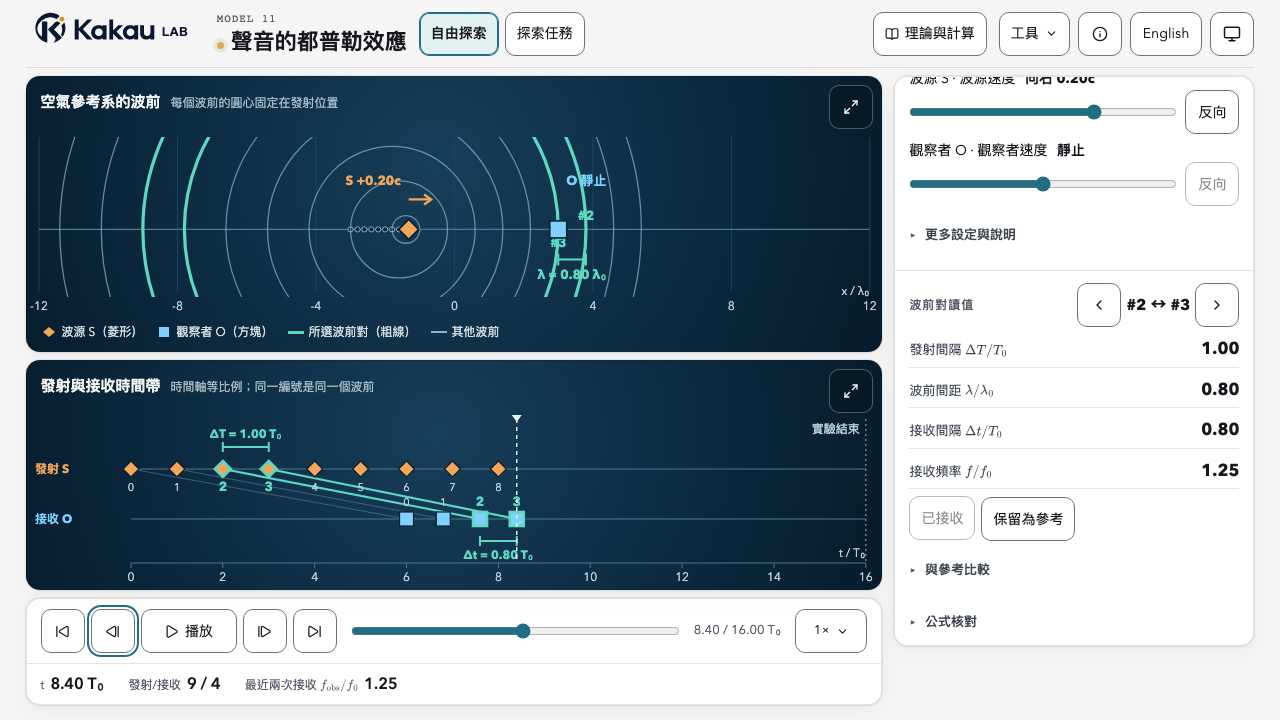
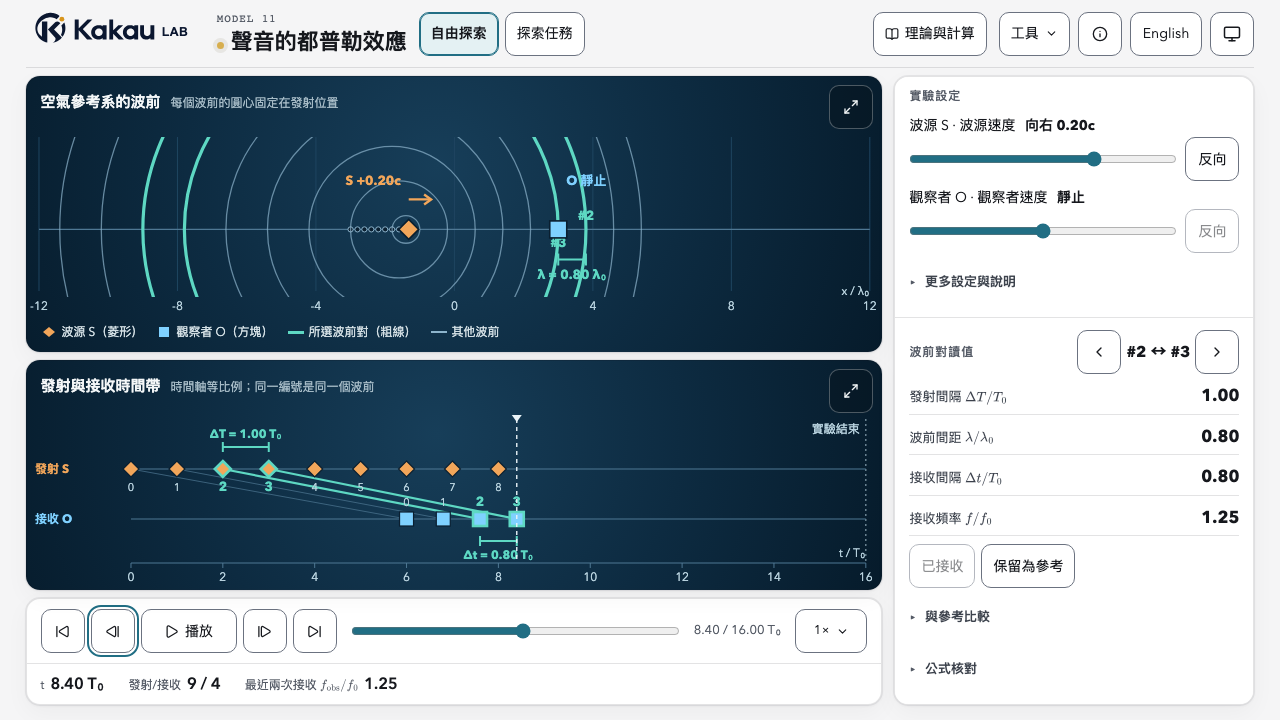
fix(doppler): side panel matches the figures column, transport wraps by dock width
On wide screens the side panel is stretched to the height of the figures plus
the dock and scrolls inside itself. The transport lays out by the width of the
dock (container query), so the rate menu can no longer overflow it when the side
panel takes its share of a mid-width window.

diff --git a/app/doppler-c2.css b/app/doppler-c2.css
@@ -90,8 +90,14 @@ html[data-mode="dark"] .doppler-c2 .doppler-toast[data-tone="warn"] .doppler-toa
 /* ---- Stage: figures + dock on the left, readouts and controls on the right ---- */
 .doppler-c2 .doppler-stage { display: grid; grid-template-columns: minmax(0, 1fr) 360px; grid-template-areas: "figures side" "dock side"; align-items: start; gap: 8px 12px; }
 .doppler-c2 .doppler-figures { grid-area: figures; display: grid; gap: 8px; min-width: 0; }
-.doppler-c2 .doppler-dock { grid-area: dock; min-width: 0; border: 1px solid var(--lc-border); border-radius: 14px; background: var(--lc-raised); box-shadow: var(--lc-card-shadow); }
-.doppler-c2 .doppler-side { grid-area: side; min-width: 0; align-self: start; }
+.doppler-c2 .doppler-dock { grid-area: dock; min-width: 0; container: doppler-dock / inline-size; border: 1px solid var(--lc-border); border-radius: 14px; background: var(--lc-raised); box-shadow: var(--lc-card-shadow); }
+.doppler-c2 .doppler-side { grid-area: side; min-width: 0; align-self: stretch; }
+/* On wide screens the side panel is exactly as tall as the figures and the dock beside it, and scrolls inside itself. */
+@media (min-width: 901px) {
+  .doppler-c2 .doppler-stage[data-expanded="none"] .doppler-side { position: relative; min-height: 0; }
+  .doppler-c2 .doppler-stage[data-expanded="none"] .doppler-side-inner,
+  .doppler-c2 .doppler-stage[data-expanded="none"] .doppler-guided .guided-inner { position: absolute; inset: 0; width: auto; max-height: none; overflow-y: auto; }
+}
 
 /* Cards keep the dark data surface of the lab; only the frame follows C2. */
 .doppler-c2 .doppler-card { display: flex; flex-direction: column; min-width: 0; }
@@ -114,6 +120,13 @@ html[data-mode="dark"] .doppler-c2 .doppler-toast[data-tone="warn"] .doppler-toa
 
 /* ---- Dock: transport and live readout ---- */
 .doppler-c2 .doppler-transport { display: grid; grid-template-columns: auto minmax(120px, 1fr) auto auto; align-items: center; gap: 8px 14px; padding: 10px 14px; }
+/* The layout follows the width of the dock, not of the window: when the five buttons, the scrubber, the clock and the
+ * rate menu no longer fit on one row, the scrubber gets a row of its own and the clock and rate menu share the last. */
+@container doppler-dock (max-width: 720px) {
+  .doppler-c2 .doppler-transport { grid-template-columns: minmax(0, 1fr) auto; }
+  .doppler-c2 .doppler-transport-buttons { grid-column: 1 / -1; }
+  .doppler-c2 .doppler-scrub { grid-column: 1 / -1; }
+}
 .doppler-c2 .doppler-transport-buttons { display: flex; gap: 6px; }
 .doppler-c2 .doppler-transport-buttons button { min-width: 44px; padding: 8px 10px; white-space: nowrap; }
 .doppler-c2 .doppler-transport-buttons button[aria-label="播放"], .doppler-c2 .doppler-transport-buttons button[aria-label="暫停"],
@@ -184,9 +197,6 @@ html[data-mode="dark"] .doppler-c2 .doppler-toast[data-tone="warn"] .doppler-toa
   .doppler-c2 .doppler-stage { grid-template-columns: minmax(0, 1fr); grid-template-areas: "figures" "dock" "side"; }
   .doppler-c2 .doppler-wave-host { height: clamp(220px, 40vh, 340px); }
   .doppler-c2 .doppler-side-inner, .doppler-c2 .doppler-guided .guided-inner { max-height: none; overflow: visible; }
-  .doppler-c2 .doppler-transport { grid-template-columns: minmax(0, 1fr) auto; }
-  .doppler-c2 .doppler-transport-buttons { grid-column: 1 / -1; }
-  .doppler-c2 .doppler-scrub { grid-column: 1 / -1; }
 }
 @media (max-width: 660px) {
   .doppler-c2.lab-shell { padding: 8px 8px 24px; }

diff --git a/tests/e2e/doppler.spec.ts b/tests/e2e/doppler.spec.ts
@@ -302,6 +302,37 @@ test.describe("Doppler — free exploration", () => {
     expect(await page.evaluate(() => document.documentElement.scrollWidth <= innerWidth + 1)).toBe(true);
   });
 
+  test("wide layouts: the side panel is as tall as figures plus dock, and the rate menu never leaves the dock", async ({ page }) => {
+    for (const [width, height] of [[1440, 900], [1280, 720], [1100, 800], [1000, 800], [920, 800]]) {
+      await page.setViewportSize({ width, height });
+      await open(page);
+      const rect = (selector: string) => page.evaluate((q) => { const r = document.querySelector(q)!.getBoundingClientRect(); return { top: r.top, bottom: r.bottom, left: r.left, right: r.right }; }, selector);
+      const figures = await rect(".doppler-figures");
+      const dock = await rect(".doppler-dock");
+      const side = await rect(".doppler-side");
+      expect(Math.abs(side.top - figures.top), `${width}: tops`).toBeLessThanOrEqual(1);
+      expect(Math.abs(side.bottom - dock.bottom), `${width}: bottoms`).toBeLessThanOrEqual(1);
+      const menu = await rect(".doppler-transport .doppler-menu > button");
+      expect(menu.right, `${width}: rate menu inside the dock`).toBeLessThanOrEqual(dock.right + 0.5);
+      expect(menu.left).toBeGreaterThanOrEqual(dock.left);
+      for (const selector of [".doppler-transport-buttons", ".doppler-scrub", ".doppler-clock"]) {
+        const box = await rect(selector);
+        expect(box.right, `${width}: ${selector}`).toBeLessThanOrEqual(dock.right + 0.5);
+      }
+      // The menu list stays on screen when opened.
+      await page.getByRole("button", { name: /^播放倍率：/ }).click();
+      const list = await rect(".doppler-transport .doppler-menu-list");
+      expect(list.left).toBeGreaterThanOrEqual(0);
+      expect(list.right).toBeLessThanOrEqual(width);
+      expect(list.top).toBeGreaterThanOrEqual(0);
+      await page.keyboard.press("Escape");
+      await mode(page, "探索任務").click();
+      const guidedSide = await rect(".doppler-side");
+      const guidedDock = await rect(".doppler-dock"); // the masked readout makes the dock a little shorter
+      expect(Math.abs(guidedSide.bottom - guidedDock.bottom), `${width}: guided bottom`).toBeLessThanOrEqual(1);
+    }
+  });
+
   test("reduced motion: playback steps from event to event and stays readable and controllable", async ({ page }) => {
     await page.emulateMedia({ reducedMotion: "reduce" });
     await open(page);

diff --git a/docs/audits/doppler-prototype-20261119.md b/docs/audits/doppler-prototype-20261119.md
@@ -47,7 +47,7 @@
 | Lint | `npm run lint` | 0 error；2 個 `StandardAtmosphereLab.tsx` 既有 warning（與本改動無關） |
 | Unit + build | `npm test`（= `npm run build` + `node --test tests/*.test.mjs`） | build 成功；**485 / 485 pass** |
 | 型別 | `npx tsc --noEmit` | 本改動無錯；`db/index.ts`、`worker/index.ts` 的 cloudflare 型別錯誤在 main 上即存在 |
-| Doppler E2E | `BASE_URL=http://localhost:3100 npx playwright test tests/e2e/doppler.spec.ts --project=desktop-chromium` | **30 / 30 pass**（dev server、Chromium） |
+| Doppler E2E | `BASE_URL=http://localhost:3100 npx playwright test tests/e2e/doppler.spec.ts --project=desktop-chromium` | **31 / 31 pass**（dev server、Chromium） |
 | 既有 Projectile E2E | `projectile-layered`、`projectile-export` | pass（一併跑的 32 個通過；theme-menu 見下） |
 | theme-menu E2E | `tests/e2e/theme-menu.spec.ts` | 本分支 12 / 36 失敗；**同一份 spec 在 main（dev server，同機）10 / 36 失敗**，失敗集合不同、症狀同為「選單 list 未出現」，判為 dev server 水合時序的既有不穩，**未診斷、未修**；Doppler 未影響這些頁面 |
 | 效能（非門檻） | `DOPPLER_PERF=1 npx playwright test tests/e2e/doppler-perf.spec.ts` | dev server／headless Chromium／未降速：首次可操作 322 ms；2× 播放 frame 平均 16.6 ms、p95 18.4 ms；放大視圖切換 22.7 ms。**這不是代表裝置的 baseline** |
